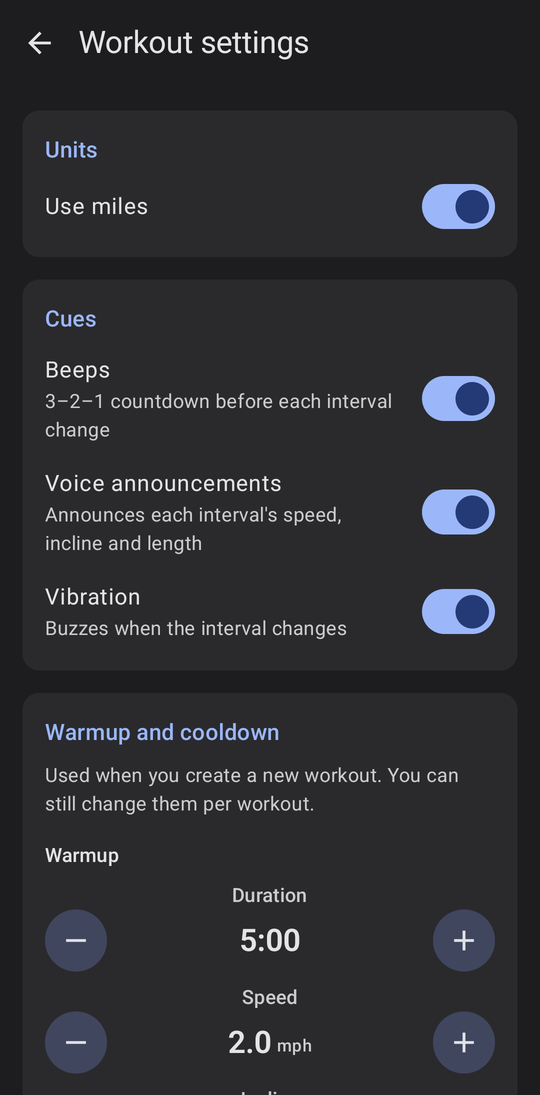
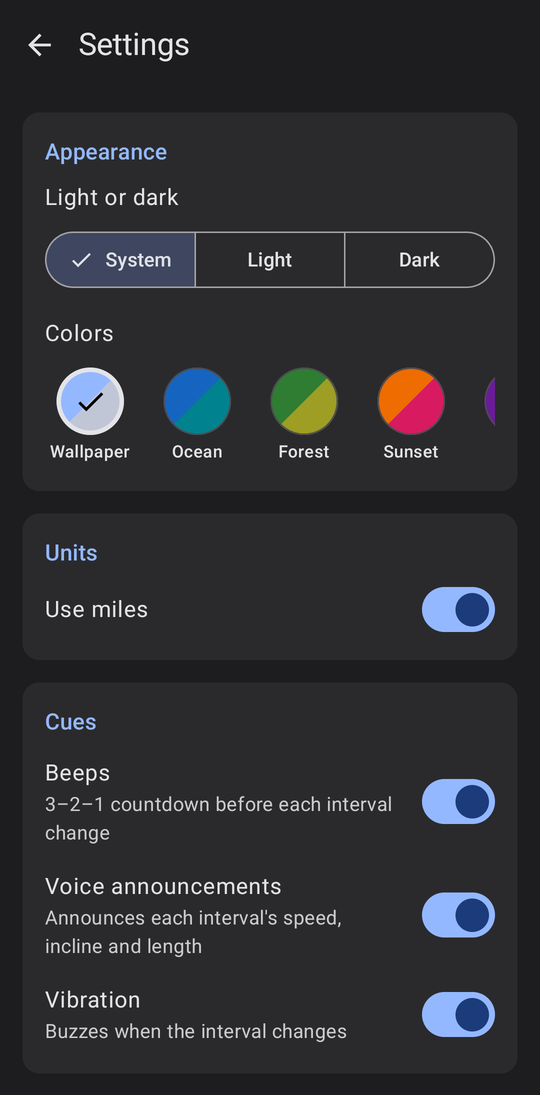
Document color themes in the README
Adds a Themes section covering light/dark mode, the sample themes and
the custom theme editor, with new screenshots. Updates the settings
screenshot and references for the screen's new "Settings" title.

diff --git a/README.md b/README.md
@@ -116,12 +116,13 @@ Tap **Save** when you're done. If you close the editor without saving, the app a
 
 <br clear="right">
 
-### Workout settings
+### Settings
 
-<img src="docs/screenshots/settings.png" width="240" align="right" alt="Workout settings">
+<img src="docs/screenshots/settings.png" width="240" align="right" alt="Settings">
 
 Tap the ⚙ icon on the Workouts tab to set:
 
+- **Appearance**: light or dark mode and the app's colors. See [Themes](#themes).
 - **Units**: miles or kilometers.
 - **Cues** during a workout:
   - **Beeps**: a 3–2–1 countdown before each interval change.
@@ -129,6 +130,36 @@ Tap the ⚙ icon on the Workouts tab to set:
   - **Vibration**: buzzes when the interval changes.
 - **Warmup and cooldown**: the default duration, speed and incline for new workouts. You can still change them in each workout.
 - **Health Connect**: turn on **Send workouts automatically** to export every finished workout.
+
+<br clear="right">
+
+## Themes
+
+<p align="center">
+  <img src="docs/screenshots/theme-ocean-light.png" width="240" alt="Workouts tab in the Ocean theme, light mode">
+  <img src="docs/screenshots/theme-sunset-dark.png" width="240" alt="Workouts tab in the Sunset theme, dark mode">
+</p>
+
+You can change the app's colors in **Settings** → **Appearance**:
+
+- **Light or dark**: **System** follows your phone's setting. **Light** and **Dark** always use that mode.
+- **Colors**: each theme is a main color and an accent color. The app works out the rest of its colors from those two, in both light and dark mode.
+  - **Wallpaper** (the default) uses colors from your phone's wallpaper.
+  - **Ocean**, **Forest**, **Sunset**, **Grape**, **Graphite** and **Cherry** are ready-made themes.
+  - **Custom** uses colors you choose.
+
+Your choice applies right away and is remembered next time you open the app.
+
+### Making your own theme
+
+<img src="docs/screenshots/theme-custom.png" width="240" align="right" alt="Custom theme editor">
+
+1. Tap **Custom** to switch to your custom colors.
+2. Tap **Custom** again to open the **Custom theme** editor.
+3. For **Main color** and **Accent color**, tap a color circle, or type a color code like `#1E88E5` in the **Hex** box.
+4. Check the **Preview**, then tap **Save**.
+
+There's one custom theme. Saving replaces the colors you had before.
 
 <br clear="right">
 
@@ -146,7 +177,7 @@ From there you can **Run again**, **Send to Health Connect**, or delete the reco
 
 FTMS Treadmill can write finished workouts to Health Connect so other fitness apps can show them. It writes exercise sessions (with their intervals), distance, calories burned (when the treadmill reports them) and speed. It **never reads** any of your health data.
 
-To export one workout, open it in History and tap **Send to Health Connect**. The first time you do this, Health Connect asks you to allow access. To export every workout automatically, turn on **Send workouts automatically** in Workout settings.
+To export one workout, open it in History and tap **Send to Health Connect**. The first time you do this, Health Connect asks you to allow access. To export every workout automatically, turn on **Send workouts automatically** in Settings.
 
 ## Importing and exporting workouts
 
